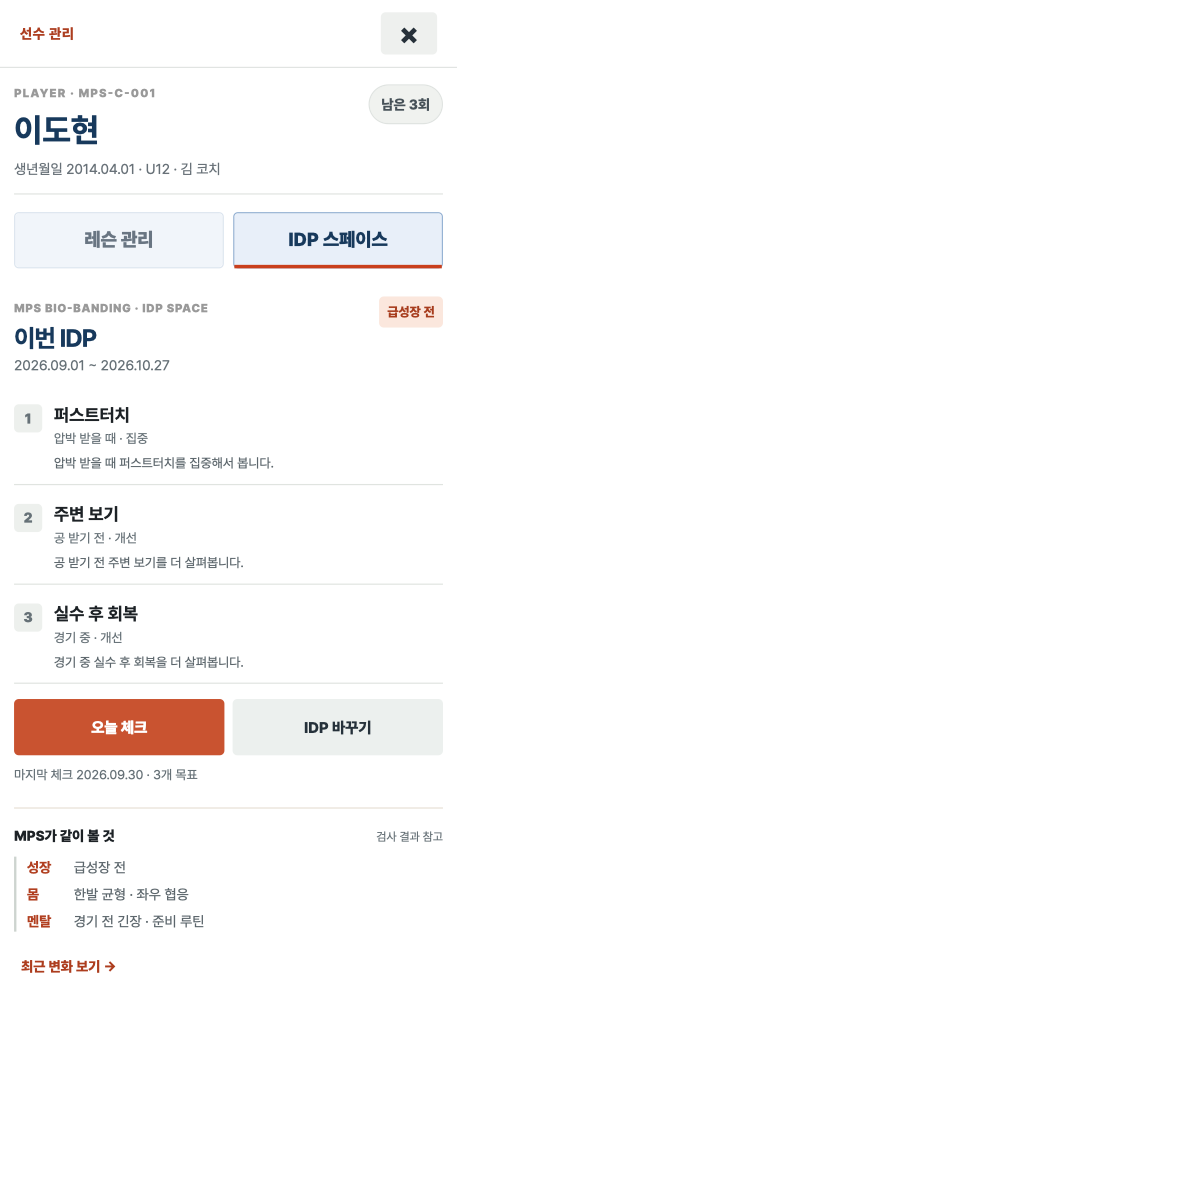
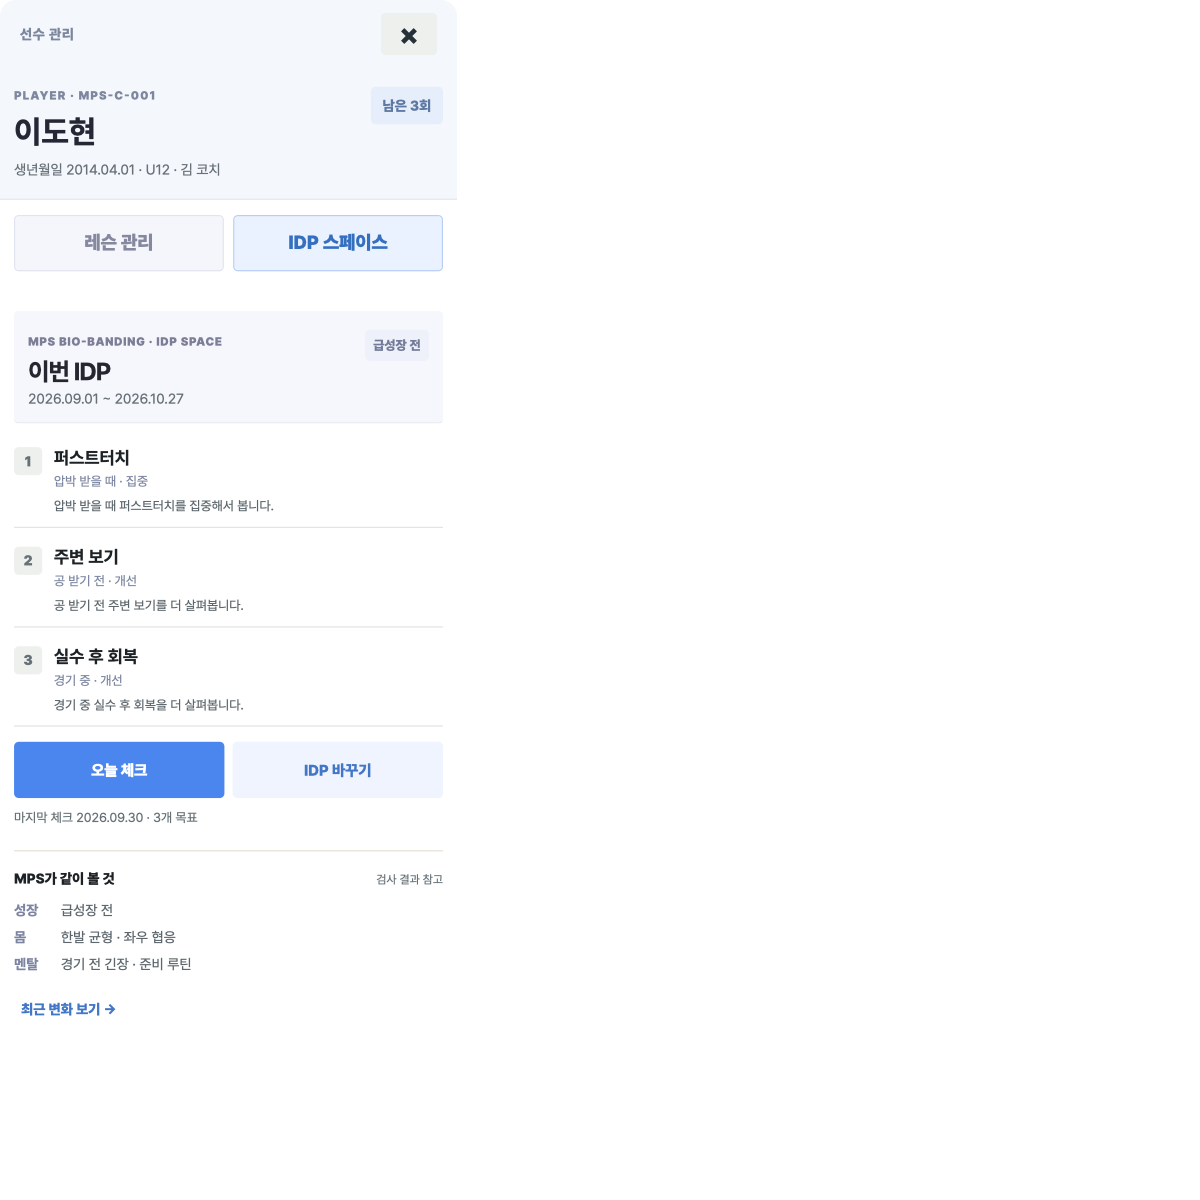
Clarify light theme identity headers and record sections

diff --git a/style.css b/style.css
@@ -791,3 +791,45 @@ button,input,select,textarea{min-width:0}
 :root[data-theme="light"] .day-grid button small,:root[data-theme="light"] .weekdays span:first-child{color:#6689c0}
 :root[data-theme="light"] .day-grid button:hover,:root[data-theme="light"] .calendar-trigger:hover,:root[data-theme="light"] .player-tabs button:hover{border-color:#a8c5f6}
 :root[data-theme="light"] .tag.stage,:root[data-theme="light"] .tag.maturity,:root[data-theme="light"] .tag.sessions{background:#eef2fa;color:#6c7d9d}
+/* Clear information hierarchy: tinted identity, white records, quiet section headers. */
+.player-card-identity,.player-card-results{display:block}
+:root[data-theme="light"] .stage-players>.player-card-button,:root[data-theme="light"] .stage-players>.player-card-button.selected{padding:0;overflow:hidden;border-color:#d9deeb;background:#fff}
+:root[data-theme="light"] .player-card-identity{padding:10px 11px 8px;background:#f4f7fc;border-bottom:1px solid #e3e7f0}
+:root[data-theme="light"] .player-card-results{padding:5px 11px 8px;background:#fff}
+:root[data-theme="light"] .compact-top strong{font-size:15px;color:#242632}
+:root[data-theme="light"] .compact-measure{padding:6px 0 0;line-height:1.4;color:#747b91}
+:root[data-theme="light"] .compact-measure small{color:#8e95a8}
+:root[data-theme="light"] .compact-stage{background:#e5edff;color:#5077b4}
+:root[data-theme="light"] .compact-result{padding:5px 0;margin-top:0;color:#5b647c}
+:root[data-theme="light"] .compact-result+.compact-result{border-top:1px solid #f0f1f7}
+:root[data-theme="light"] .result-copy>strong{color:#45465d}
+:root[data-theme="light"] .compact-result .result-key{color:#7e7d9b;font-size:11px}
+:root[data-theme="light"] .compact-result.physical .result-key{color:#609695}
+:root[data-theme="light"] .compact-result.idp .result-key{color:#5f84bf}
+:root[data-theme="light"] .idp-card-tag{background:#edf3ff;border-color:#dae5fa;color:#617fab}
+:root[data-theme="light"] .player-modal-head{background:#f4f7fc;border-bottom:0;color:#7c879e}
+:root[data-theme="light"] #player-detail-dialog .detail-head{margin:-22px -22px 0;padding:17px 22px 16px;background:#f4f7fc;border-bottom:1px solid #e2e7f0}
+:root[data-theme="light"] #player-detail-dialog .detail-head h2{font-size:27px;color:#252735}
+:root[data-theme="light"] #player-detail-dialog .detail-head .eyebrow{color:#7e87a0}
+:root[data-theme="light"] #player-detail-dialog .detail-head .badge{background:#e7eefb;border:0;color:#5c78a3;border-radius:4px}
+:root[data-theme="light"] .player-tabs{padding:13px 0 3px;margin-top:0}
+:root[data-theme="light"] .assessment-section{padding-top:0;margin-top:18px;border-top:0}
+:root[data-theme="light"] .assessment-section>.section-label{margin:0 0 10px;padding:9px 10px;background:#f8f9fc;border-top:1px solid #e6e9f2;border-bottom:1px solid #e6e9f2;font-size:14px}
+:root[data-theme="light"] #player-detail-dialog .growth-panel{padding:0 11px 9px;background:#fff;border:1px solid #dde3ef;border-radius:4px}
+:root[data-theme="light"] .growth-title{padding:9px 11px;margin:0 -11px;background:#f2f6fd;border-bottom:1px solid #e4e9f2}
+:root[data-theme="light"] .growth-title span{color:#7f8ba0}
+:root[data-theme="light"] .growth-title strong{background:#e6efff;padding:3px 6px;border-radius:3px;color:#5478af;font-size:12px}
+:root[data-theme="light"] .growth-facts b{color:#41495e}
+:root[data-theme="light"] .compact-insights{background:none;border:0;gap:8px}
+:root[data-theme="light"] .insight-strip,:root[data-theme="light"] .insight-strip.physical{background:#fff;border:1px solid #e0e3ef;border-radius:4px;padding:0 10px 8px}
+:root[data-theme="light"] .insight-strip-head{margin:0 -10px;padding:8px 10px;background:#f6f3fc;border-bottom:1px solid #eeebf5}
+:root[data-theme="light"] .insight-strip.physical .insight-strip-head{background:#f0f8f8;border-bottom-color:#e6efef}
+:root[data-theme="light"] .insight-strip-head span{color:#817993}
+:root[data-theme="light"] .insight-strip.physical .insight-strip-head span{color:#789596}
+:root[data-theme="light"] .insight-strip-head strong{color:#47465e;font-size:13px}
+:root[data-theme="light"] .insight-inline,:root[data-theme="light"] .insight-recs{margin-top:6px;color:#626a80}
+:root[data-theme="light"] .additional-label{background:#f8f9fc;border:1px solid #e6e9f2;border-left:0;border-right:0;padding:9px 10px;margin-top:20px;font-size:14px}
+:root[data-theme="light"] .idp-top{background:#f6f7fc;border-bottom:1px solid #e3e6ef;padding:12px;margin:14px -0px 10px;border-radius:4px}
+:root[data-theme="light"] .calendar-side>h3{padding-bottom:10px;border-bottom:1px solid #e3e1ed}
+:root[data-theme="light"] .booking-row{border-color:#dde2ee;background:#fff}
+@media(max-width:700px){:root[data-theme="light"] .stage-players>.player-card-button,:root[data-theme="light"] .stage-players>.player-card-button.selected{padding:0}:root[data-theme="light"] #player-detail-dialog .detail-head{margin:-14px -12px 0;padding:16px 12px}:root[data-theme="light"] .player-card-identity{padding:9px 10px 7px}:root[data-theme="light"] .player-card-results{padding:4px 10px 7px}:root[data-theme="light"] .compact-top strong{font-size:14px}}

diff --git a/app.js b/app.js
@@ -106,11 +106,12 @@ function renderStageGuide(){const box=$('#stage-guide'),guide=STAGE_GUIDES[stage
 function card(p){
   const report=p.report,mental=mentalResult(p),physical=physicalPlan(p);
   return `<button class="player-card-button compact-player" data-id="${esc(p.id)}" type="button" aria-label="${esc(p.name)} 선수 정보 열기">
-    <span class="compact-top"><strong>${esc(p.name)}</strong><span class="compact-dob">${esc(displayDate(p.dob))}</span><span class="compact-stage">${esc(getStage(p))}</span><b class="compact-remaining">남은 ${Math.max(0,p.paid-p.used)}회</b></span>
+    <span class="player-card-identity"><span class="compact-top"><strong>${esc(p.name)}</strong><span class="compact-dob">${esc(displayDate(p.dob))}</span><span class="compact-stage">${esc(getStage(p))}</span><b class="compact-remaining">남은 ${Math.max(0,p.paid-p.used)}회</b></span>
     <span class="compact-measure"><span>최근 검사 ${esc(displayDate(report?.examDate))}</span><span>뼈나이 ${esc(report?yearsMonths(report.boneAgeMonths):'대기')}</span><span>${esc(signedDiff(p))}</span><small>${esc(p.code)}</small></span>
-    <span class="compact-result mental"><b class="result-key">M</b><span class="result-copy"><strong>${esc(mental?.type||'결과 대기')}</strong>${mental?`<span>강점 ${mental.strengths.map(esc).join(' · ')} / 보완점 ${mental.needs.map(esc).join(' · ')}</span>`:''}</span></span>
+    </span><span class="player-card-results"><span class="compact-result mental"><b class="result-key">M</b><span class="result-copy"><strong>${esc(mental?.type||'결과 대기')}</strong>${mental?`<span>강점 ${mental.strengths.map(esc).join(' · ')} / 보완점 ${mental.needs.map(esc).join(' · ')}</span>`:''}</span></span>
     <span class="compact-result physical"><b class="result-key">P</b><span class="result-copy">${physical?`<span><strong>피지컬강점</strong> ${physical.strengths.length?physical.strengths.map(esc).join(' · '):'결과 대기'} / <strong>보완점</strong> ${physical.needs.map(esc).join(' · ')||'결과 대기'}</span>`:'결과 대기'}</span></span>
     <span class="compact-result idp"><b class="result-key">IDP</b><span class="idp-card-tags">${p.idp?.priorities?.length?p.idp.priorities.slice(0,3).map(item=>`<span class="idp-card-tag">${esc(item.label)}</span>`).join(''):'<span class="idp-unset">목표 선택 전</span>'}</span></span>
+    </span>
   </button>`
 }
 function renderRoster(list){$('#visible-count').textContent=`${list.length}명`;$('#player-list').innerHTML=list.length?STAGES.map(stage=>{const group=list.filter(p=>getStage(p)===stage);return group.length?`<section class="stage-group"><div class="stage-group-head"><h3>${esc(stage)}</h3><span>${group.length}명</span></div>${STAGE_PHYSICAL_FOCUS[stage]?`<p class="stage-physical-focus">훈련 중점 <span>${esc(STAGE_PHYSICAL_FOCUS[stage])}</span></p>`:''}<div class="stage-players">${group.map(card).join('')}</div></section>`:''}).join(''):'<p class="empty">해당 선수가 없습니다.</p>'}
